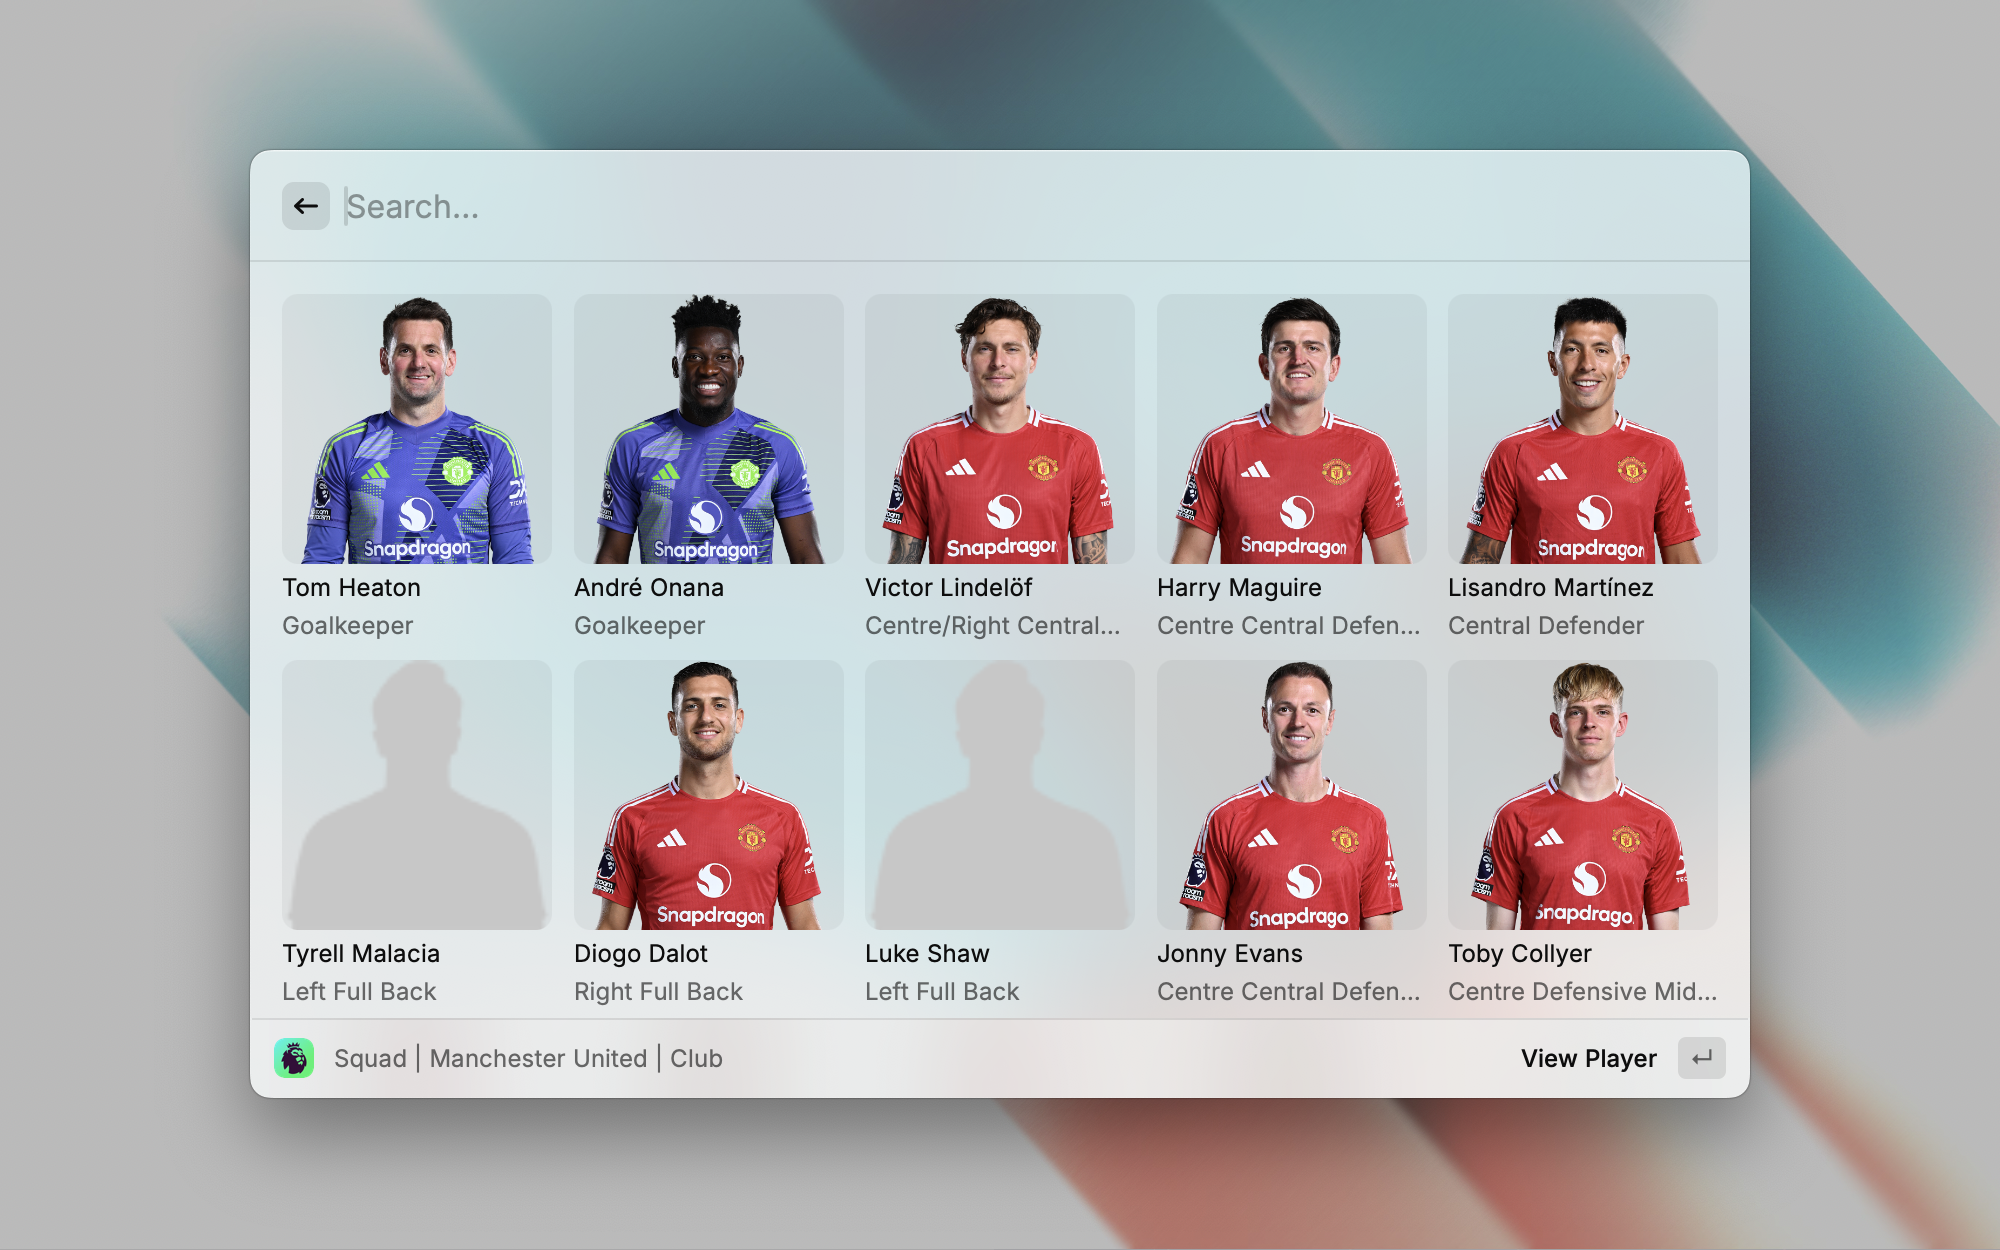
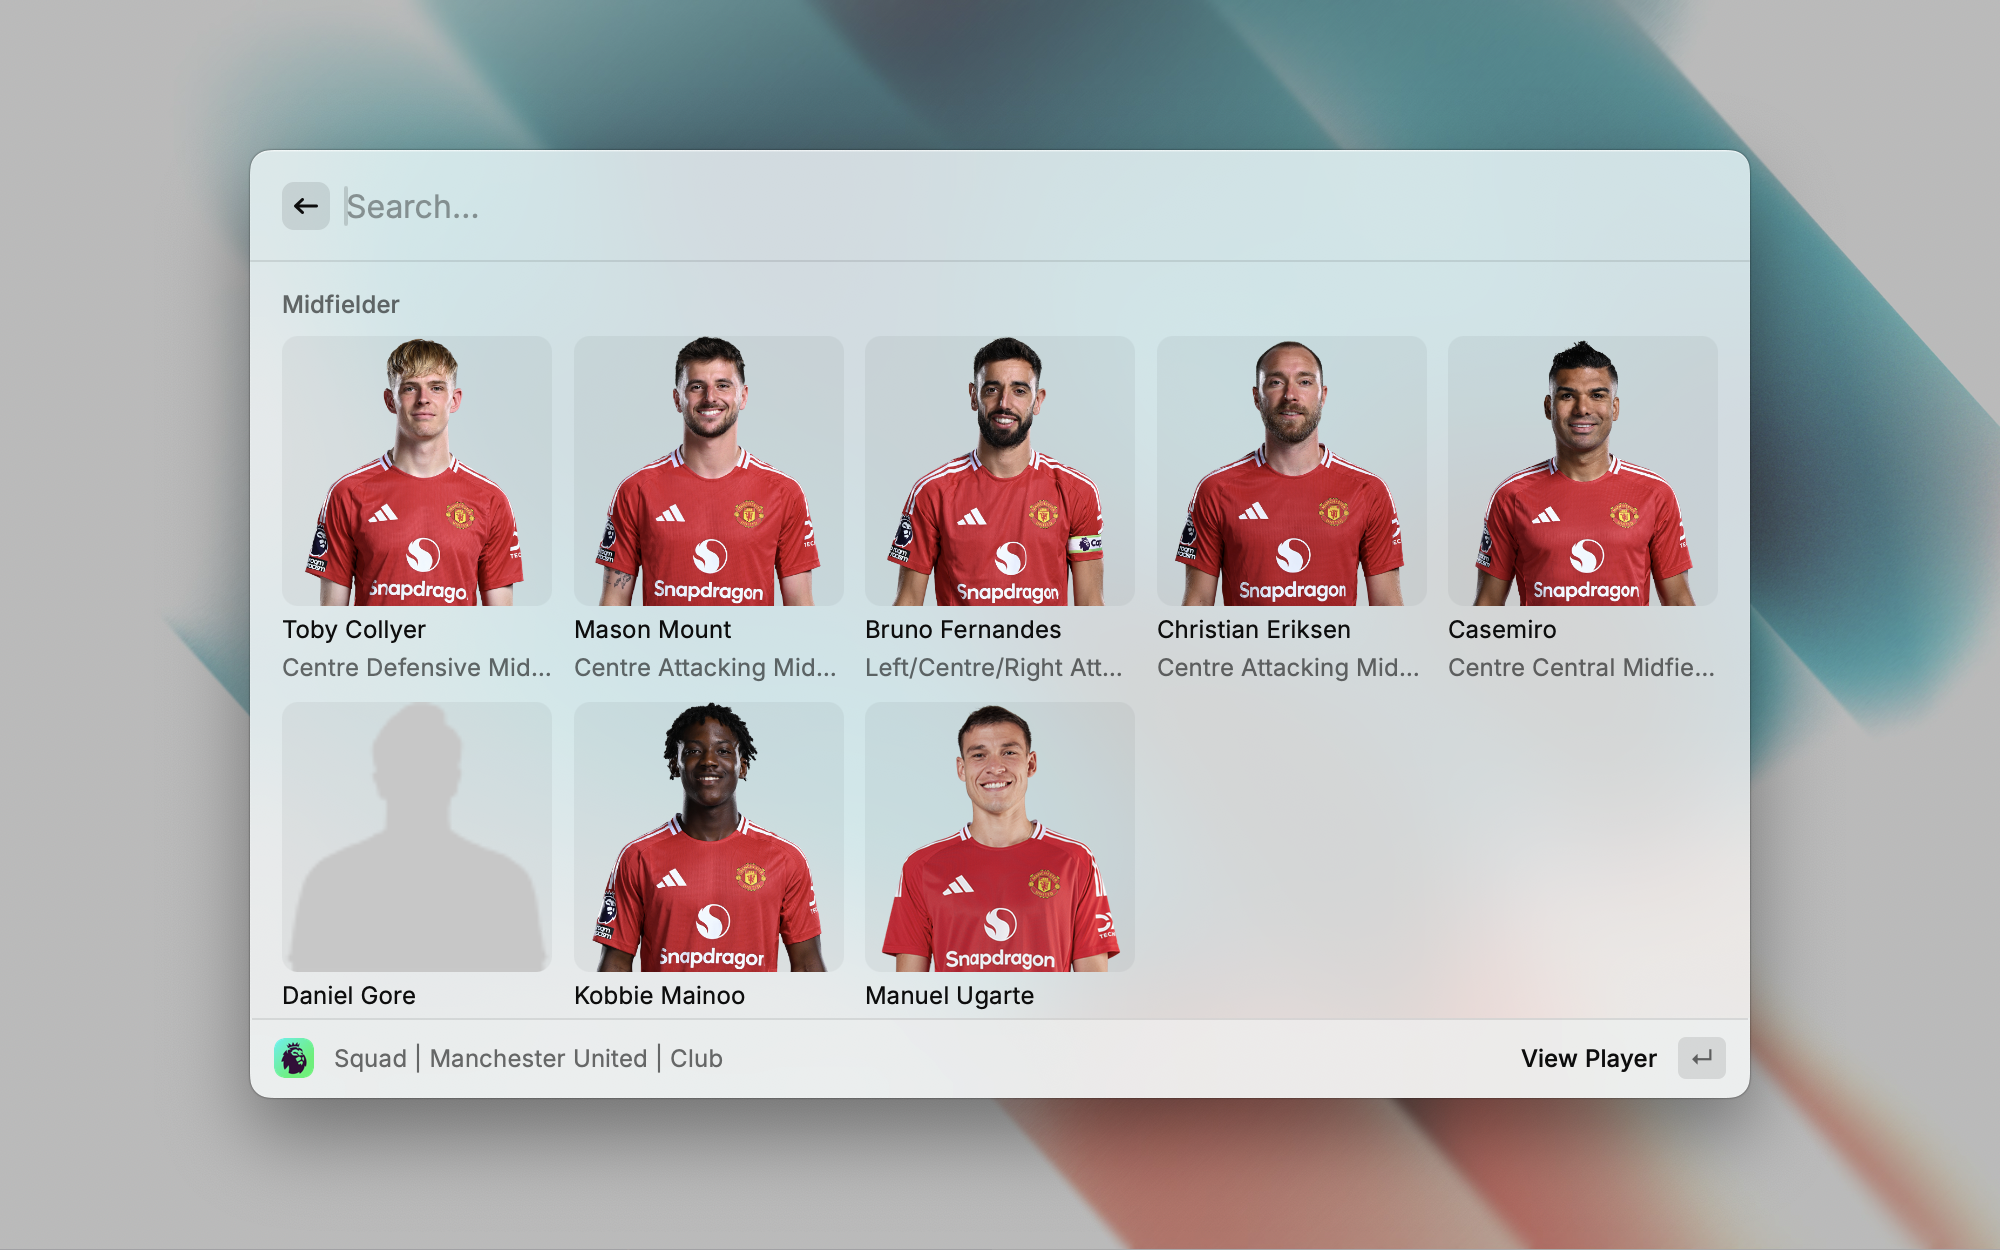
feat: add qualification stage, group squads by position

Changed region(s): [[0.124, 0.2184, 0.558, 0.8112], [0.589, 0.2184, 0.868, 0.8112], [0.155, 0.6552, 0.186, 0.6864]]

diff --git a/src/player.tsx b/src/player.tsx
@@ -1,6 +1,7 @@
 import { Action, ActionPanel, Detail, Grid, Icon } from "@raycast/api";
 import { usePromise } from "@raycast/utils";
 import json2md from "json2md";
+import groupBy from "lodash.groupby";
 import { useMemo, useState } from "react";
 import {
   getPlayers,
@@ -12,7 +13,7 @@ import {
 import { Award, Club, PlayerContent } from "./types";
 import { getFlagEmoji } from "./utils";
 
-const awardMap: { [key: string]: string } = {
+const awardMap: Record<string, string> = {
   GOLDEN_GLOVE: "Golden Glove",
   CHAMPIONS: "Premier League Champion",
   PLAYER_OF_THE_MONTH: "Player of the Month",
@@ -190,6 +191,9 @@ export default function Player(props: { club: Club }) {
     listProps.onSearchTextChange = setTerms;
   }
 
+  // console.log(data && data[0])
+  const positions = groupBy(data, "latestPosition");
+
   return (
     <Grid throttle isLoading={isLoading} pagination={pagination} {...listProps}>
       {props.club && (
@@ -205,27 +209,36 @@ export default function Player(props: { club: Club }) {
         />
       )}
       {(!terms || terms.length >= 3) &&
-        data?.map((p) => {
+        Object.entries(positions).map(([position, players]) => {
           return (
-            <Grid.Item
-              key={p.id}
-              title={p.name.display}
-              subtitle={p.info.positionInfo}
-              keywords={[p.info.positionInfo]}
-              content={{
-                source: `https://resources.premierleague.com/premierleague/photos/players/250x250/${p.altIds.opta}.png`,
-                fallback: "player-missing.png",
-              }}
-              actions={
-                <ActionPanel>
-                  <Action.Push
-                    title="View Player"
-                    icon={Icon.Sidebar}
-                    target={<PlayerProfile {...p} />}
+            <Grid.Section
+              key={position}
+              title={`${position.charAt(0).toUpperCase()}${position.slice(1).toLowerCase()}`}
+            >
+              {players.map((player) => {
+                return (
+                  <Grid.Item
+                    key={player.id}
+                    title={player.name.display}
+                    subtitle={player.info.positionInfo}
+                    keywords={[player.info.positionInfo]}
+                    content={{
+                      source: `https://resources.premierleague.com/premierleague/photos/players/250x250/${player.altIds.opta}.png`,
+                      fallback: "player-missing.png",
+                    }}
+                    actions={
+                      <ActionPanel>
+                        <Action.Push
+                          title="View Player"
+                          icon={Icon.Sidebar}
+                          target={<PlayerProfile {...player} />}
+                        />
+                      </ActionPanel>
+                    }
                   />
-                </ActionPanel>
-              }
-            />
+                );
+              })}
+            </Grid.Section>
           );
         })}
     </Grid>

diff --git a/src/table.tsx b/src/table.tsx
@@ -4,6 +4,20 @@ import { useState } from "react";
 import { getSeasons, getTables } from "./api";
 import { convertToLocalTime } from "./utils";
 
+const qualificationMap: Record<string, string> = {
+  EU_CL: "UEFA Champions League",
+  EU_EL: "UEFA Europa League",
+  EU_ECL: "UEFA Conference League",
+  EN_CH: "EFL Championship",
+};
+
+const qualificationColor: Record<string, string> = {
+  EU_CL: Color.Blue,
+  EU_EL: Color.Orange,
+  EU_ECL: Color.Green,
+  EN_CH: Color.Red,
+};
+
 export default function GetTables() {
   const { data: seasons = [] } = usePromise(getSeasons);
 
@@ -47,8 +61,15 @@ export default function GetTables() {
         return (
           <List.Section key={table.gameWeek}>
             {table.entries.map((entry) => {
-              const { overall, team, position, form, next, startingPosition } =
-                entry;
+              const {
+                overall,
+                team,
+                position,
+                form,
+                next,
+                startingPosition,
+                annotations,
+              } = entry;
 
               let icon: Image.ImageLike = {
                 source: Icon.Dot,
@@ -104,6 +125,29 @@ export default function GetTables() {
                     <List.Item.Detail
                       metadata={
                         <List.Item.Detail.Metadata>
+                          {Array.isArray(annotations) && annotations.length && (
+                            <List.Item.Detail.Metadata.TagList
+                              title={
+                                annotations[0].type === "Q"
+                                  ? "Qualification"
+                                  : "Relegation"
+                              }
+                            >
+                              {annotations.map((annotation, idx) => {
+                                return (
+                                  <List.Item.Detail.Metadata.TagList.Item
+                                    key={idx}
+                                    text={
+                                      qualificationMap[annotation.destination]
+                                    }
+                                    color={
+                                      qualificationColor[annotation.destination]
+                                    }
+                                  />
+                                );
+                              })}
+                            </List.Item.Detail.Metadata.TagList>
+                          )}
                           <List.Item.Detail.Metadata.Label
                             title="Played"
                             text={overall.played.toString()}

diff --git a/src/api/index.ts b/src/api/index.ts
@@ -172,7 +172,7 @@ export const getPlayers = async (
   season: string,
   page: number,
 ): Promise<PlayerResult> => {
-  const params: { [key: string]: string | number | boolean } = {
+  const params: Record<string, string | number | boolean> = {
     pageSize,
     compSeasons: season,
     altIds: true,

diff --git a/src/club.tsx b/src/club.tsx
@@ -62,7 +62,7 @@ function ClubProfile(props: TeamTeam) {
         <ActionPanel>
           <Action.Push
             title="Squad"
-            icon={Icon.Person}
+            icon={Icon.TwoPeople}
             target={<Player club={props.club} />}
           />
           <Action.OpenInBrowser

diff --git a/src/types/index.d.ts b/src/types/index.d.ts
@@ -215,7 +215,7 @@ export interface TeamTeam {
   shortName: string;
   id: number;
   altIds: AltIDS;
-  metadata?: {
+  metadata: {
     communities_twitter: string;
     club_highlights_internal_url: string;
     club_highlights_internal_description: string;
